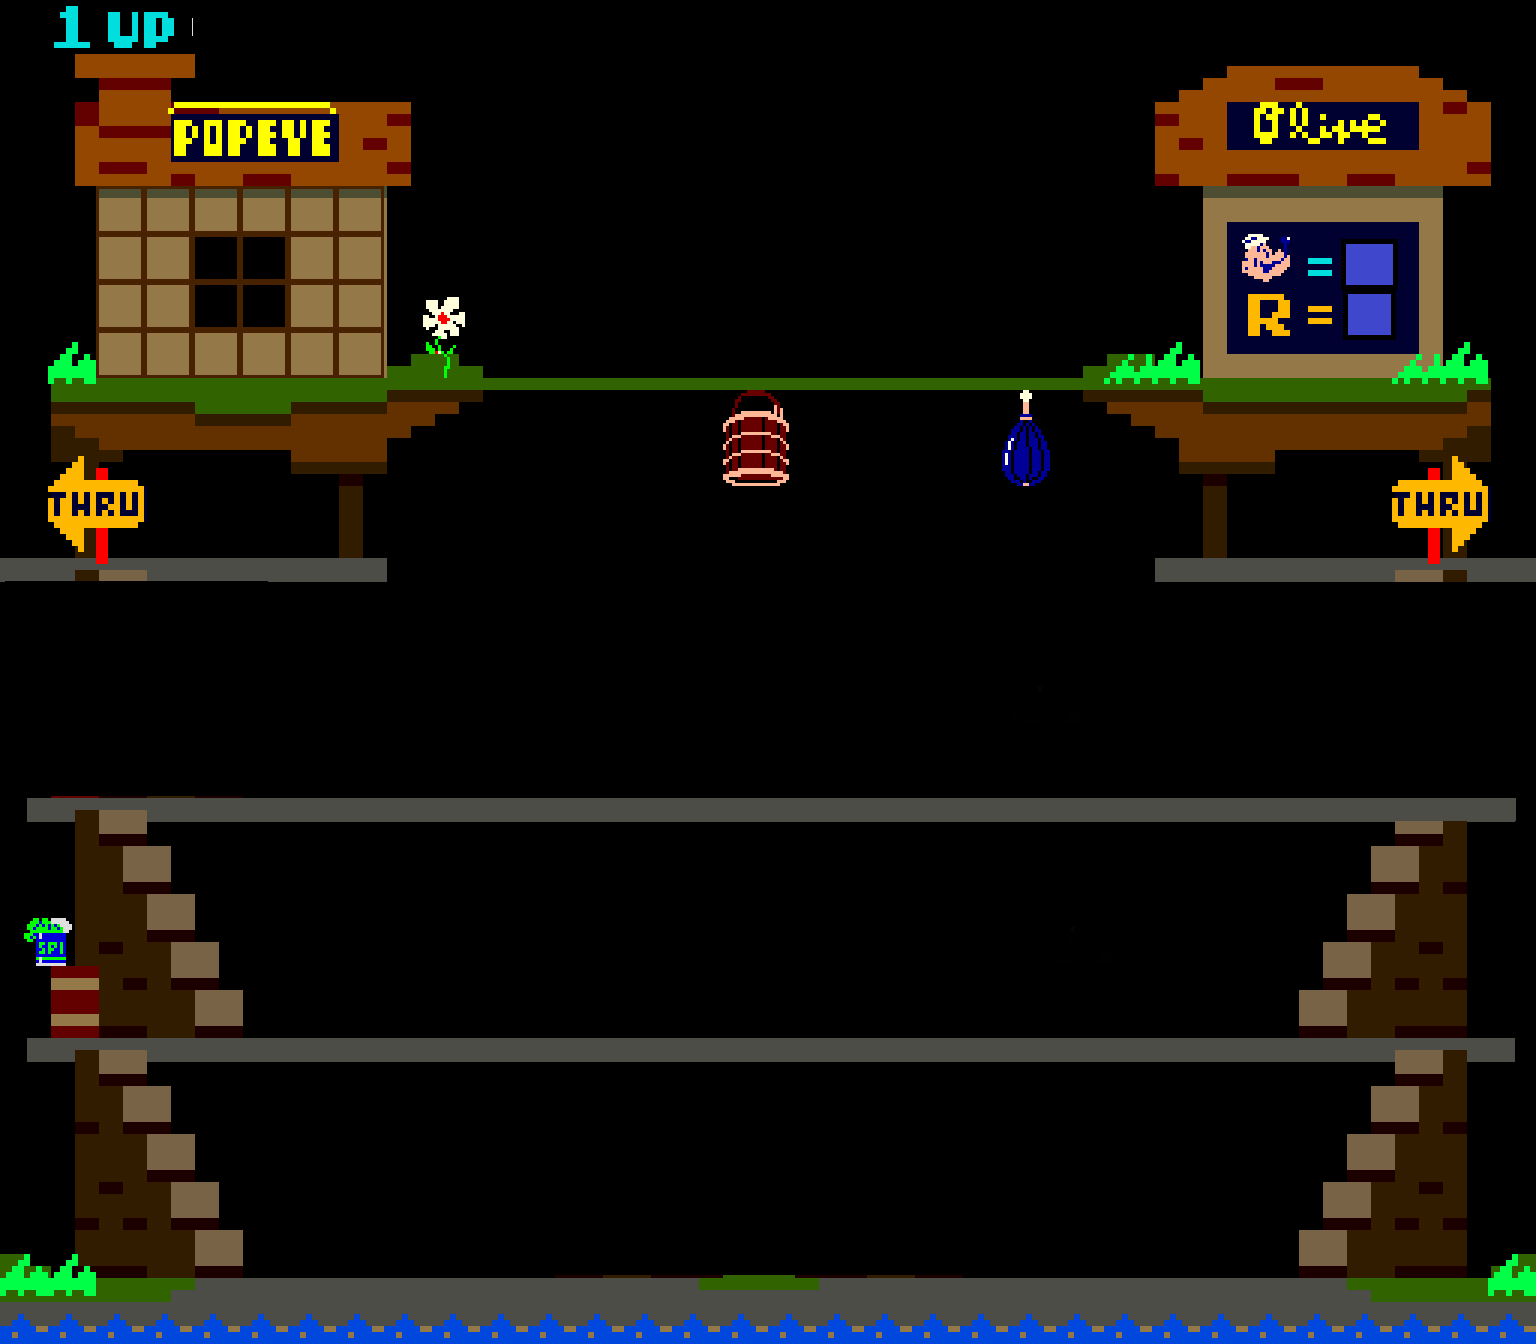
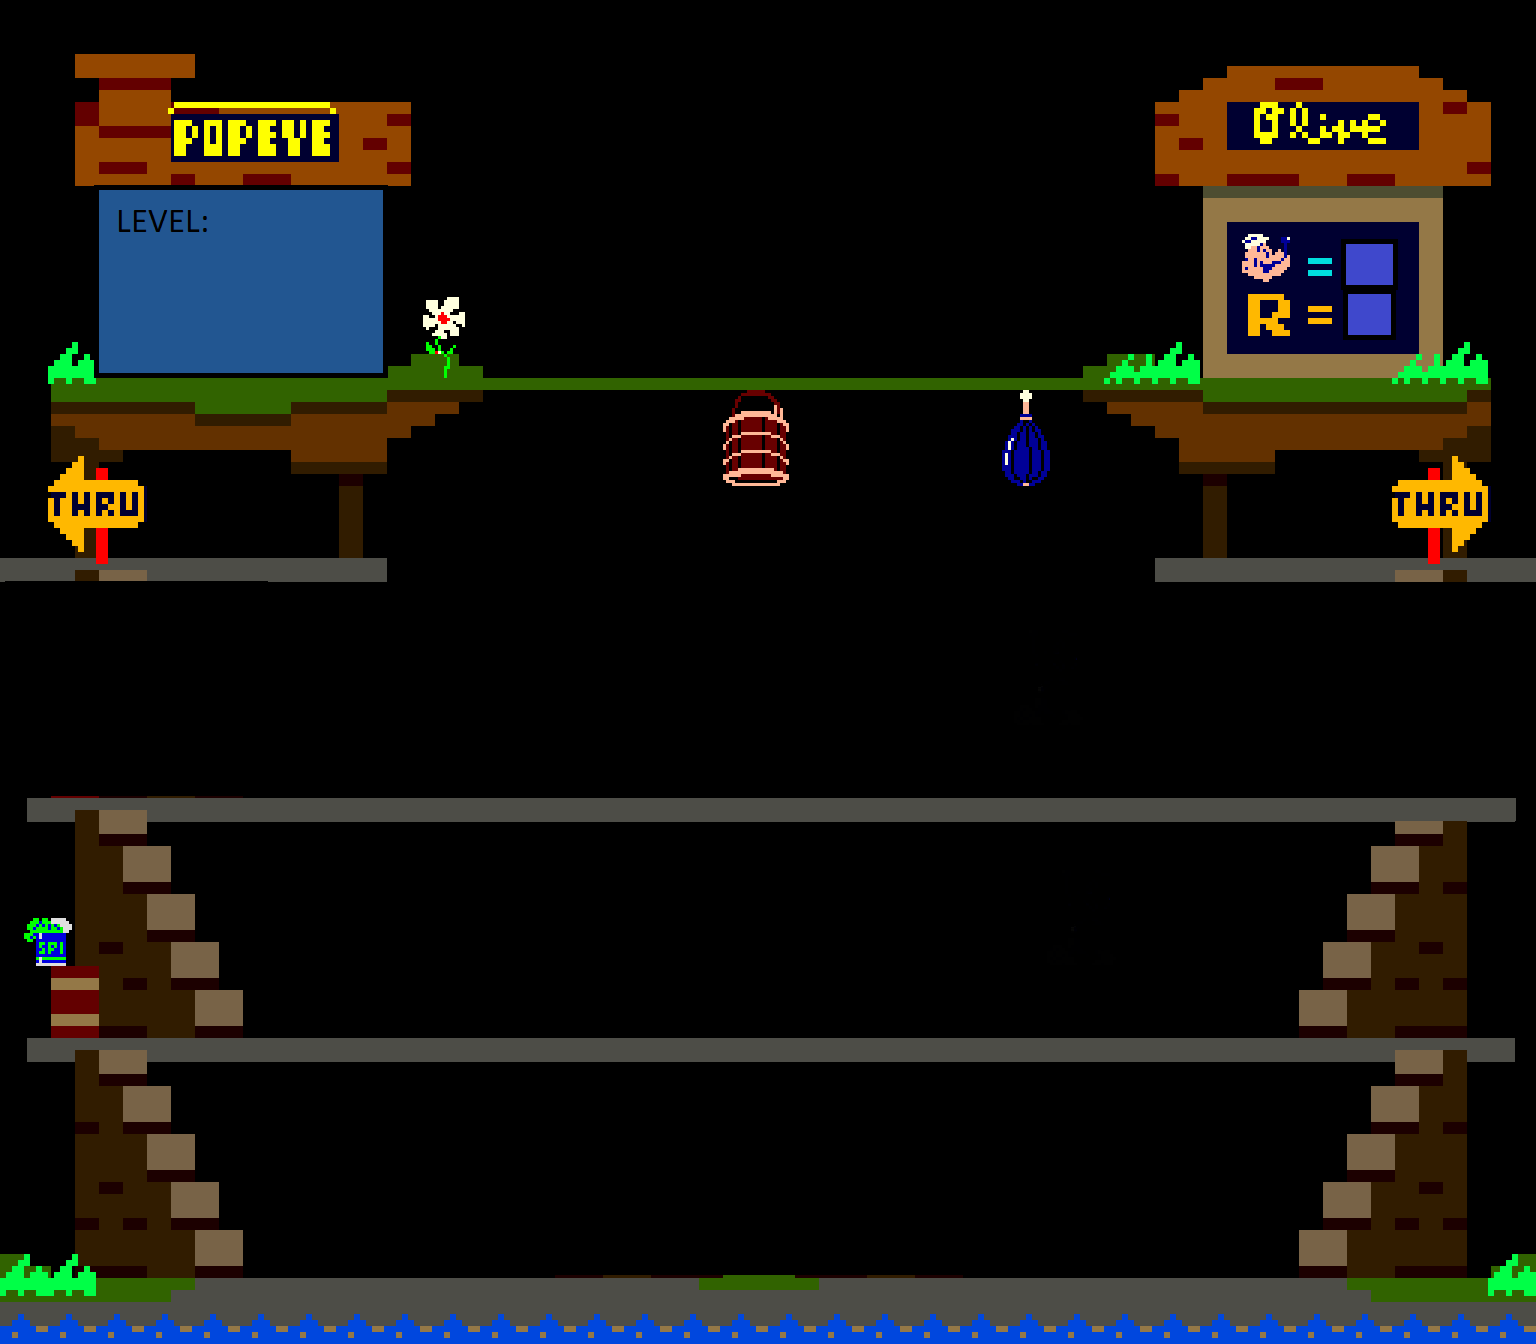
ProgressBar i Level odradjeni

Changed region(s): [[0.0625, 0.125, 0.25, 0.2812], [0.0312, 0.0, 0.125, 0.0625]]

diff --git a/PopeyeGameB/sim_move_demo.py b/PopeyeGameB/sim_move_demo.py
@@ -3,7 +3,7 @@ import random
 from PyQt5 import QtGui, QtWidgets
 from PyQt5.QtCore import Qt, QSize, QTimer
 from PyQt5.QtGui import QPixmap, QImage, QPalette, QBrush
-from PyQt5.QtWidgets import QWidget, QLabel, QApplication, QMainWindow
+from PyQt5.QtWidgets import QWidget, QLabel, QApplication, QMainWindow, QProgressBar
 
 from key_notifier import KeyNotifier
 from oliveMovement import OliveMovement
@@ -11,6 +11,7 @@ from badzoMovement import BadzoMovement
 from heartMovement import HeartMovement
 from random import randint
 br = 2
+brLevel = 0
 
 class SimMoveDemo(QMainWindow):
     def __init__(self):
@@ -44,6 +45,8 @@ class SimMoveDemo(QMainWindow):
         self.label30 = QLabel(self)
         self.labelScore = QLabel(self)
         self.labelLifes = QLabel(self)
+        self.labelLevel = QLabel(self)
+        self.pBar = QProgressBar(self)
 
         self.hitFloor = False
         self.hitSide = False
@@ -73,7 +76,7 @@ class SimMoveDemo(QMainWindow):
 
         self.sprat = 1
         self.setWindowState(Qt.WindowFullScreen)
-        self.__init_ui__(br)
+        self.__init_ui__(br,brLevel)
 
         self.key_notifier = KeyNotifier()
         self.key_notifier.key_signal.connect(self.__update_position__)
@@ -91,7 +94,7 @@ class SimMoveDemo(QMainWindow):
         self.heartMovement.heartMovementSignal.connect(self.generateHeart)
         self.heartMovement.start()
 
-    def __init_ui__(self,br):
+    def __init_ui__(self,br,brLevel):
 
         font = QtGui.QFont()
         font.setPointSize(40)
@@ -123,8 +126,10 @@ class SimMoveDemo(QMainWindow):
         self.label3.setPixmap(self.pix3)
         self.label3.setGeometry(300, 570, 85, 75)
 
-        br += 1
 
+
+        br += 1
+        brLevel += 1
         font = QtGui.QFont()
         font.setPointSize(30)
 
@@ -136,9 +141,24 @@ class SimMoveDemo(QMainWindow):
         self.labelLifes.setGeometry(1700, 162, 100, 100)
         self.labelLifes.setFont(font)
 
+        font.setPointSize(20)
+        self.labelLevel.setText(str(brLevel))
+        self.labelLevel.setGeometry(300, 125, 100, 100)
+        self.labelLevel.setFont(font)
+
+        self.pBar.setGeometry(140, 250, 300, 30)
 
         self.setWindowTitle('Popeye')
         self.show()
+
+    def progressing(self):
+        self.step += 1
+        self.pBar.setValue(self.step)
+        if self.step == 100:
+            self.level_no += 1
+            self.step = 0
+            self.pbar.setValue(self.step)
+            self.labelLevel.setText(str(self.lev) + str(self.level_no))
 
     def keyPressEvent(self, event):
         self.key_notifier.add_key(event.key())
